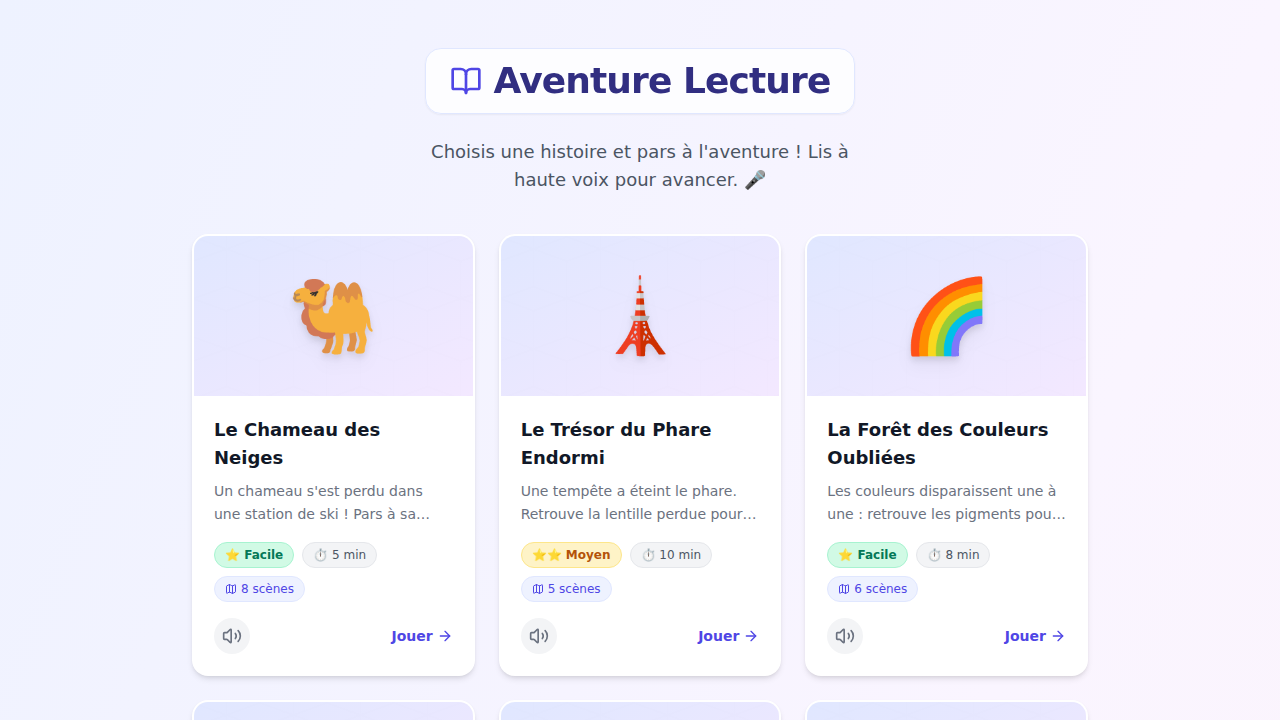
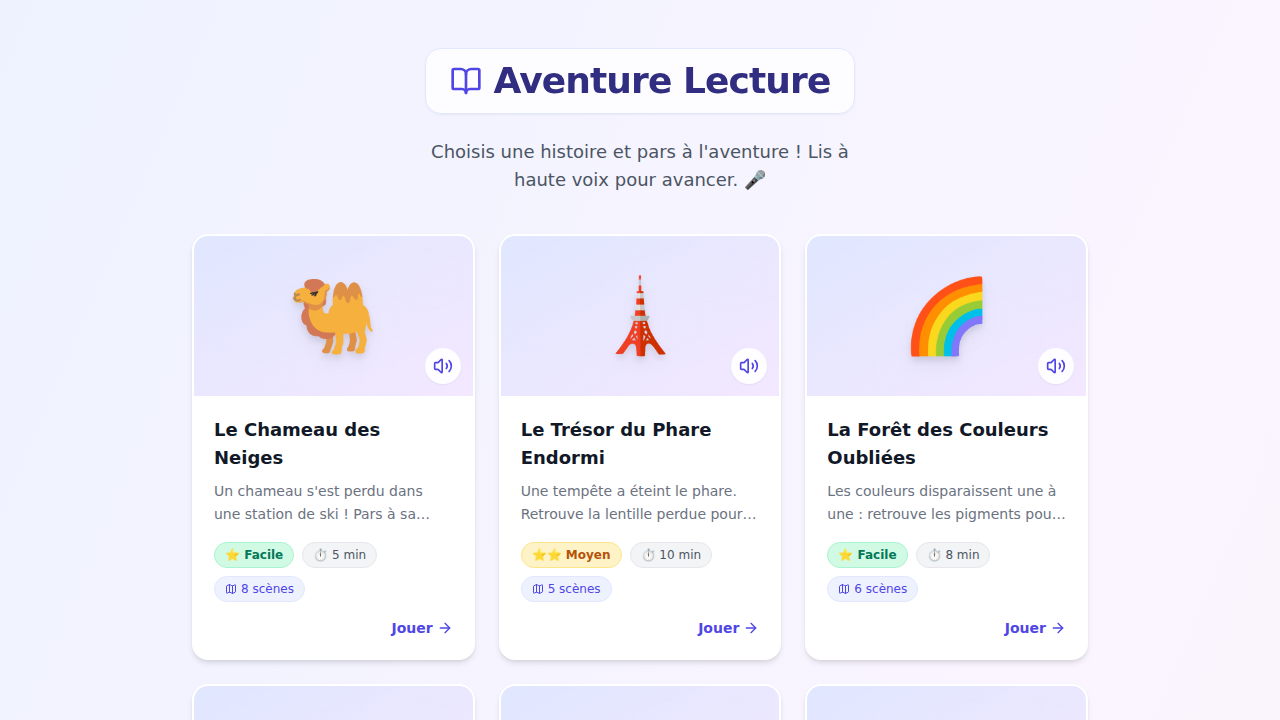
Add listen button to story selector

diff --git a/src/components/StorySelector.jsx b/src/components/StorySelector.jsx
@@ -84,6 +84,14 @@ export default function StorySelector({ stories, onSelectStory }) {
                 <span className="group-hover:animate-bounce drop-shadow-lg transition-transform duration-300 group-hover:scale-110">
                   {story.coverImage}
                 </span>
+
+                <button
+                  onClick={(e) => handleSpeakDescription(story, index, e)}
+                  className={`absolute bottom-3 right-3 p-2 rounded-full transition-all shadow-sm z-10 ${speakingStoryIndex === index ? 'bg-indigo-100 text-indigo-600 ring-2 ring-indigo-200' : 'bg-white/90 text-indigo-600 hover:bg-white hover:scale-110'}`}
+                  title="Écouter la description"
+                >
+                  {speakingStoryIndex === index ? <StopCircle size={20} /> : <Volume2 size={20} />}
+                </button>
               </div>
 
               {/* Contenu */}
@@ -110,14 +118,7 @@ export default function StorySelector({ stories, onSelectStory }) {
                 </div>
 
                 {/* Bouton Jouer */}
-                <div className="flex items-center justify-between">
-                  <button
-                    onClick={(e) => handleSpeakDescription(story, index, e)}
-                    className={`p-2 rounded-full transition-colors z-10 ${speakingStoryIndex === index ? 'bg-indigo-100 text-indigo-600' : 'bg-gray-100 text-gray-500 hover:bg-indigo-50 hover:text-indigo-500'}`}
-                    title="Écouter la description"
-                  >
-                    {speakingStoryIndex === index ? <StopCircle size={20} /> : <Volume2 size={20} />}
-                  </button>
+                <div className="flex items-center justify-end">
                   <span className="text-sm font-bold text-indigo-600 group-hover:text-indigo-800 transition-colors flex items-center gap-1">
                     Jouer
                     <ArrowRight size={16} className="transform group-hover:translate-x-1 transition-transform" />
